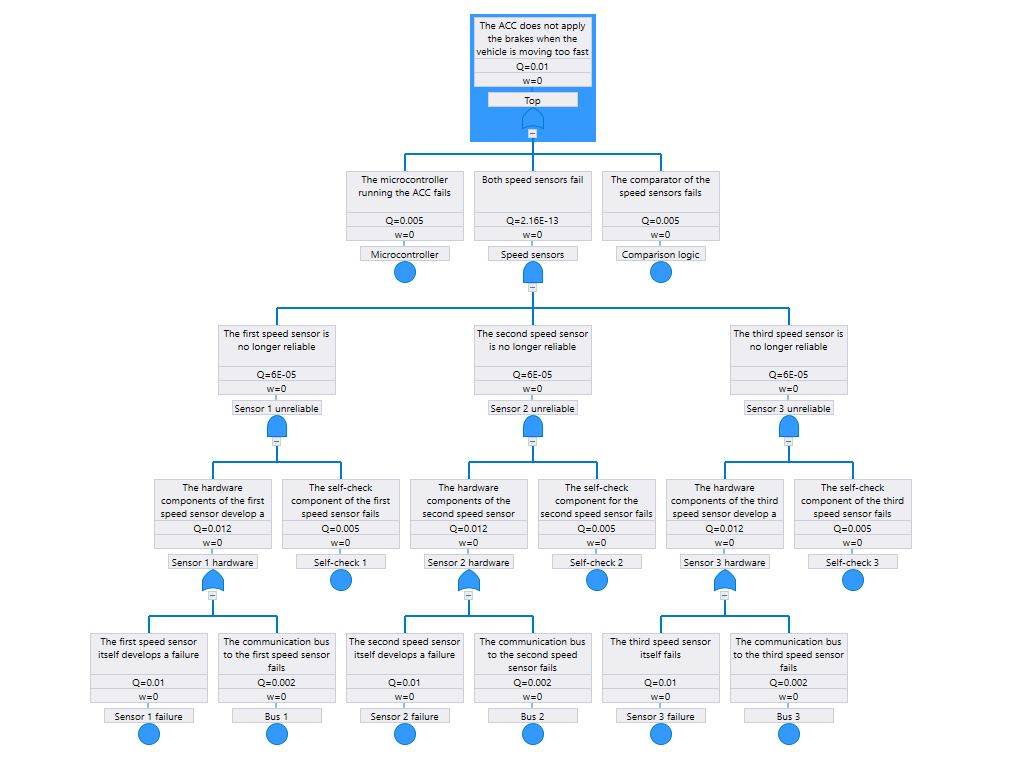
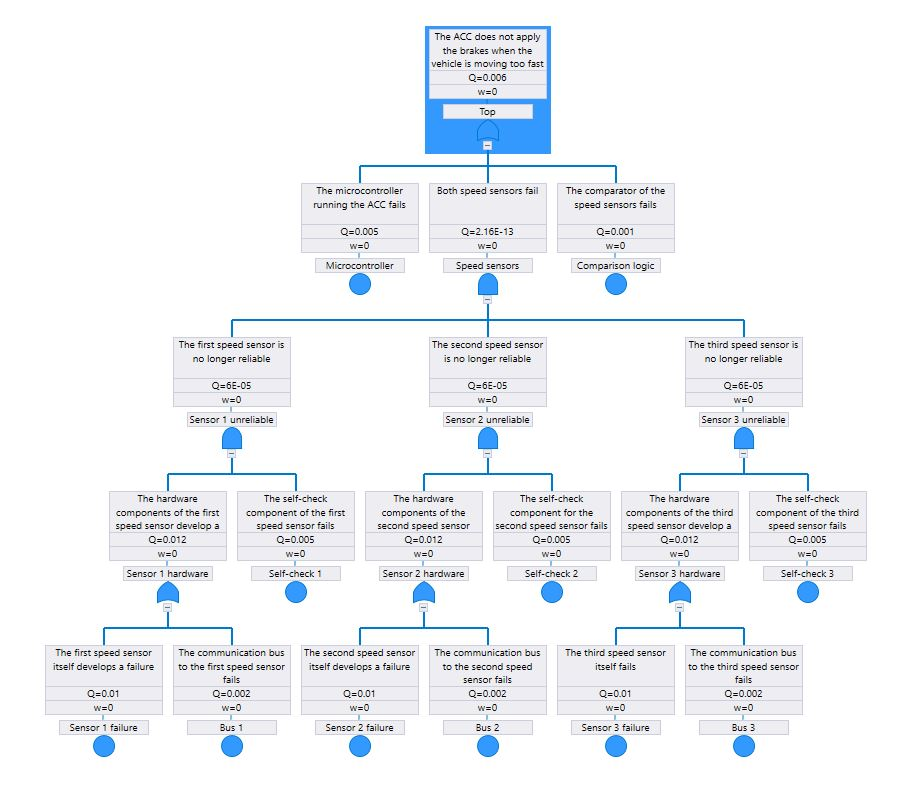
fix: Make unavailability of comparator smaller

Changed region(s): [[0.0306, 0.0, 0.9486, 1.0]]

diff --git a/doc/4-safety_analysis/4-safety_analysis.tex b/doc/4-safety_analysis/4-safety_analysis.tex
@@ -247,7 +247,7 @@ We have evaluated the tree with the unrealibility values seen on
 		\gls{wheelSpeedSensor}   & \(0.01\)  \\
 		communication bus        & \(0.002\) \\
 		\textit{\gls{selfCheck}} & \(0.005\) \\
-		\textit{comparator}      & \(0.005\) \\
+		\textit{comparator}      & \(0.001\) \\
 		\bottomrule
 	\end{tabular}
 	\caption{Table of unreliability values for the second iteration}%
@@ -257,10 +257,7 @@ We have evaluated the tree with the unrealibility values seen on
 Now, as seen on \cref{fig:eval_extended}, the unreliability value of the
 top-level hazard is:
 
-\[ Q = {\left((0.01 + 0.002) \times 0.005\right)}^2 + 0.005 + 0.005 = 0.01 \]
-
-(A manual calculation could be performed in similar manner to the previous
-ones.)
+\[ Q = {\left((0.01 + 0.002) \times 0.005\right)}^2 + 0.005 + 0.001 = 0.006 \]
 
 \begin{figure}
 	\centering
@@ -289,7 +286,22 @@ reevaluated te model to see. The last fault tree can be seen on
 According to the software used, the diffence is so insignificant, it does not
 even show:
 
-\[ Q = 0.01 \]
+\[ Q = 0.006 \]
+
+Calculating manually we found how minute the differece is:
+
+\[
+	\begin{aligned}
+		Q_2 &= {\left((0.01 + 0.002) \times 0.005\right)}^2
+		       + 0.005 + 0.001
+		     = 0.006000003 \\
+		Q_3 &= {\left((0.01 + 0.002) \times 0.005\right)}^3
+		       + 0.005 + 0.001
+		     = 0.006000000 \\
+		& \Downarrow \\
+		\Delta Q &= 3.6 \times 10^{-9}
+	\end{aligned}
+\]
 
 \begin{figure}
 	\centering
